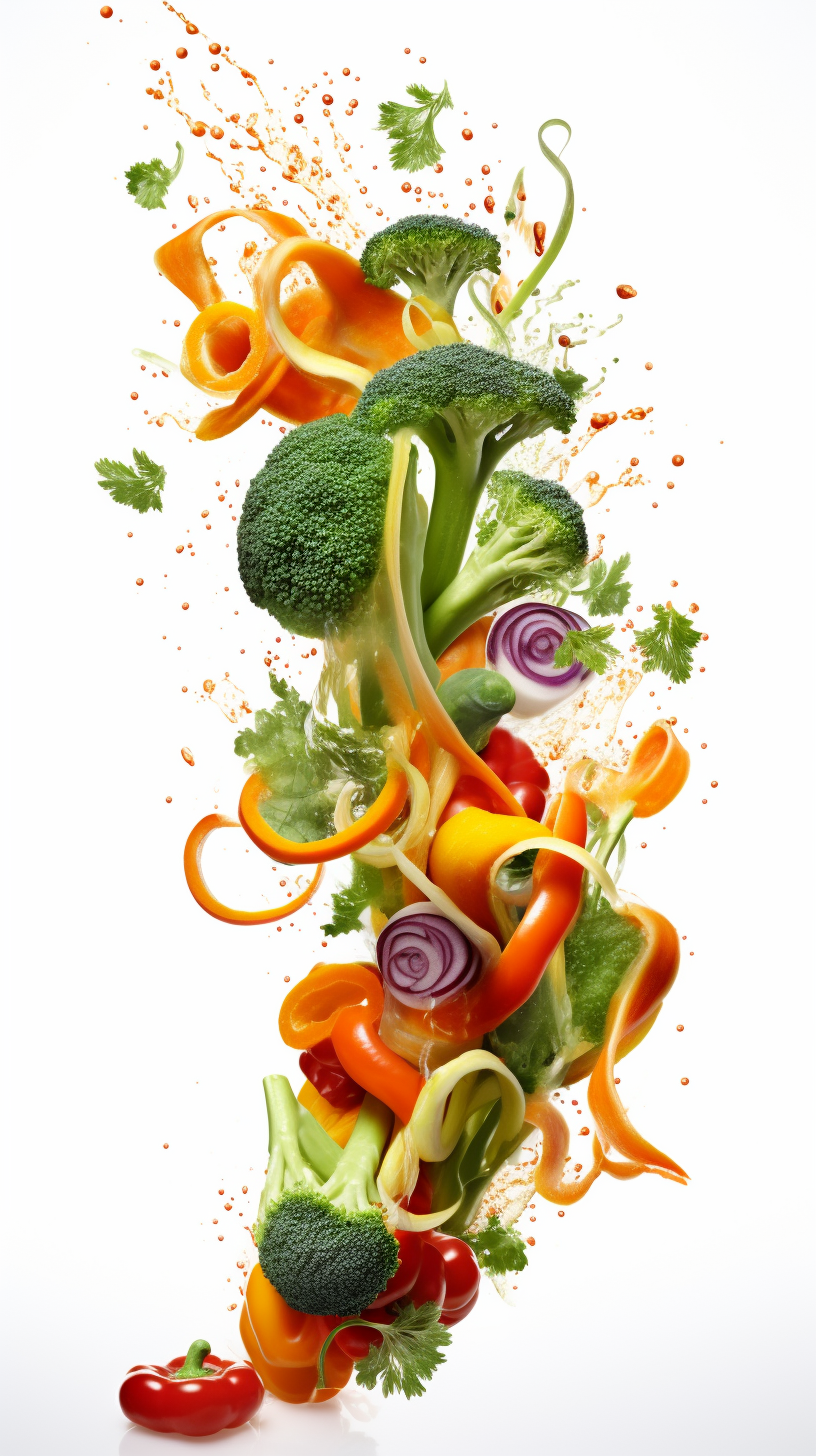
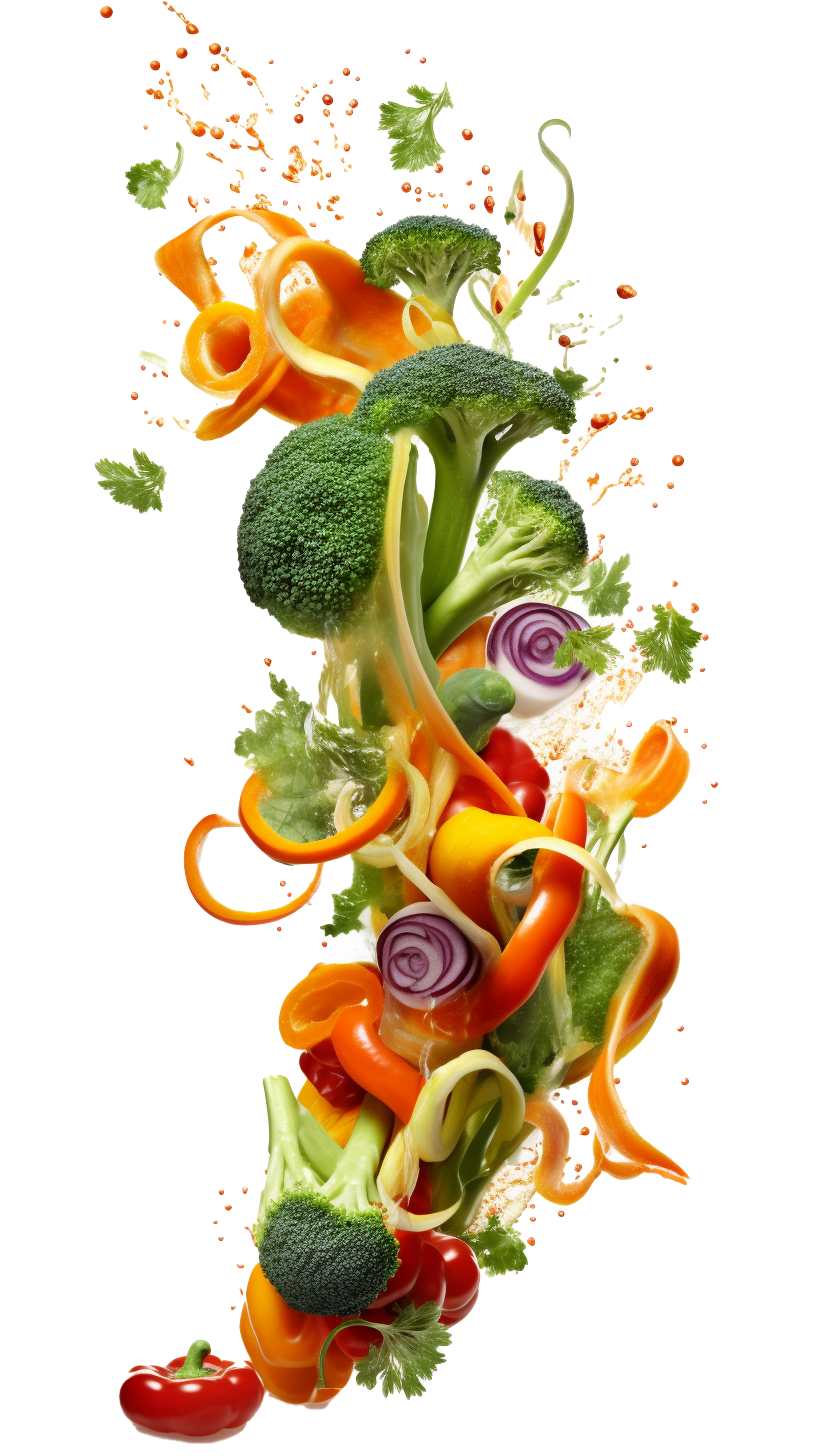
add image bottom login hb and add css in style

diff --git a/public/css/style.css b/public/css/style.css
@@ -39,4 +39,25 @@ header, .project:not(:last-child) {
     color:rgba(31, 22, 0, 0.874);
   }
   
+  .image-container {
+    position: fixed;  /* Fixed positioning */
+    top: 56%;  /* Center vertically */
+    right: 300px;  /* 20px from the right */
+    transform: translateY(-50%);  /* Adjust for true centering */
+    z-index: 1000;  /* High z-index to ensure it stays on top */
+  }
+  
+  .welcome-image {
+    max-width: 500px;  /* Increase max-width to make it larger */
+    height: auto;
+    border-radius: 4px;
+    transform: rotate(20deg);  /* Rotate the image by 20 degrees */
+    border: 0px solid transparent;
+    border-image: linear-gradient(to bottom, rgba(255,255,255,0), rgba(0,0,0,0.2));
+    border-image-slice: 1;
+  }
+  
+  
+  
+  
   
